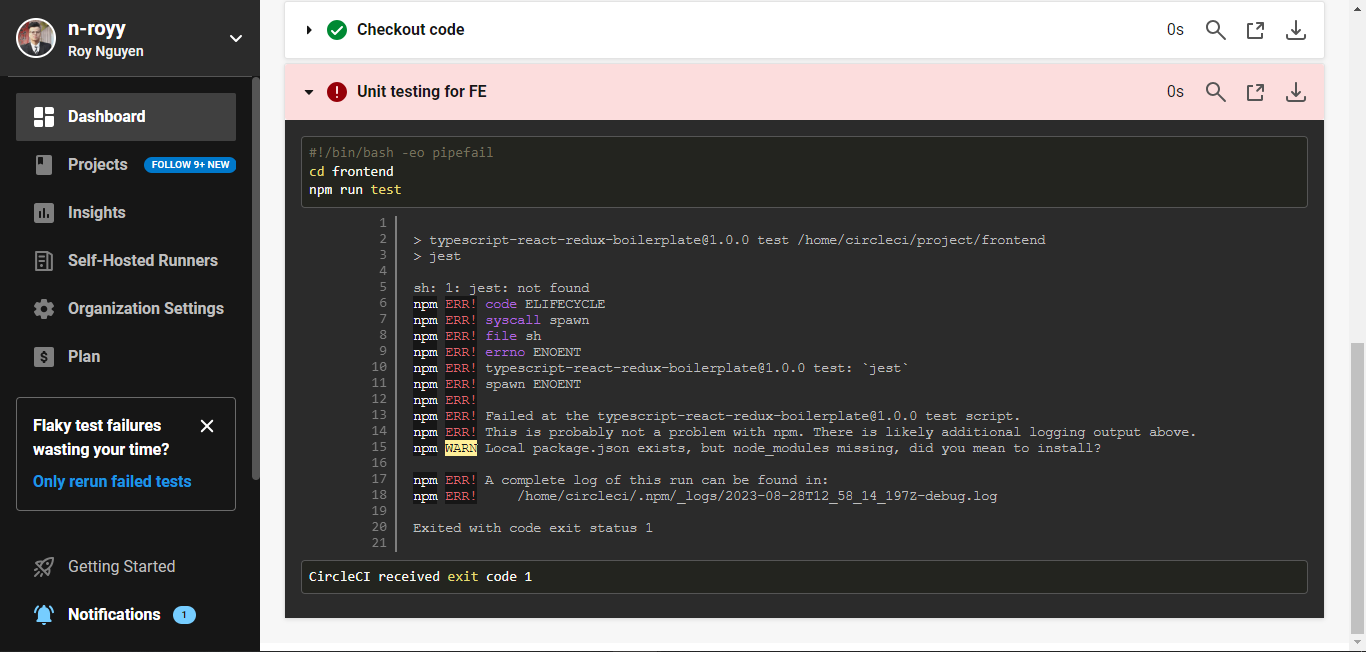
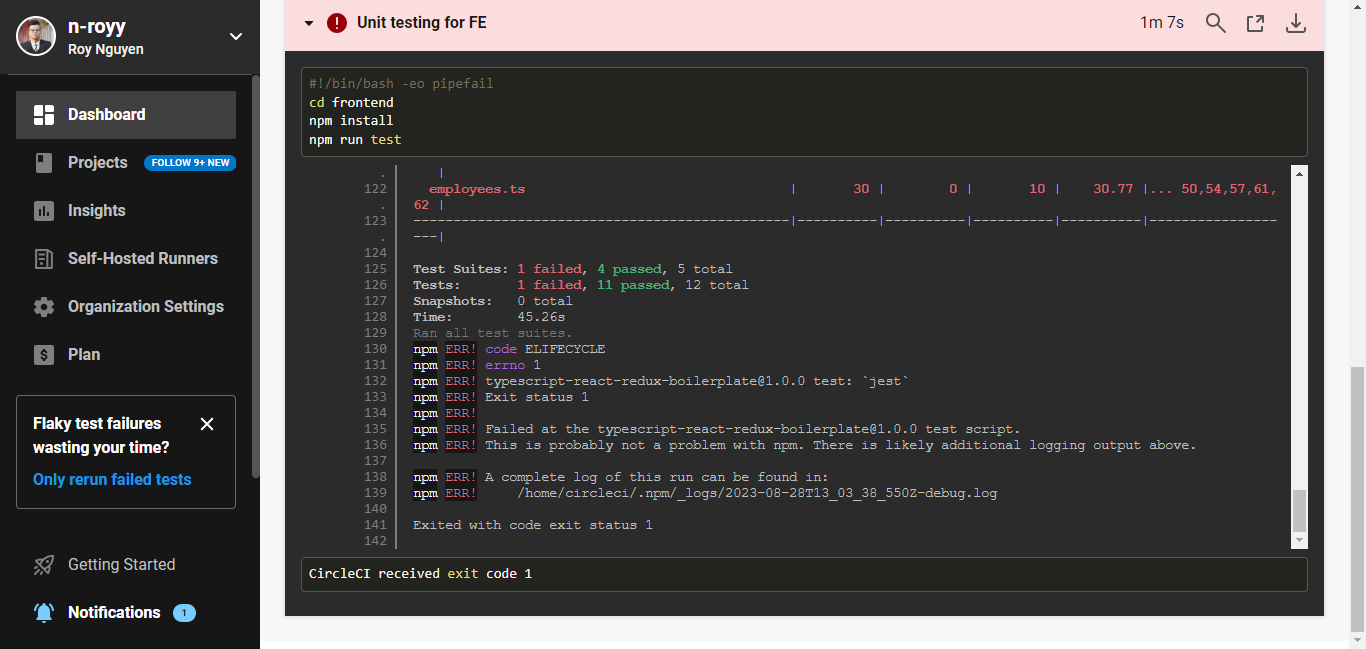
fix UT for FE and BE

diff --git a/frontend/src/app/components/LoadingMessage/LoadingMessage.spec.tsx b/frontend/src/app/components/LoadingMessage/LoadingMessage.spec.tsx
@@ -8,7 +8,7 @@ describe('<LoadingMessage>', () => {
       it('Should render the props message', () => {
         const message = 'Hello!';
         const wrapper = shallow(<LoadingMessage message={message} />);
-        expect(wrapper.contains(<span>{message}?</span>)).toBeTruthy(); //remove the question mark to make the test pass
+        expect(wrapper.contains(<span>{message}</span>)).toBeTruthy(); //remove the question mark to make the test pass
       });
     });
   });

diff --git a/backend/src/modules/domain/employees/commands/handlers/employee-activator.handler.spec.ts b/backend/src/modules/domain/employees/commands/handlers/employee-activator.handler.spec.ts
@@ -19,7 +19,7 @@ describe('Employee Remover', () => {
       const handler = new EmployeeActivator(employeeRepository);
 
       const params = {
-        employeeId: 101, //change this to 100 to make the test pass
+        employeeId: 100, //change this to 100 to make the test pass
         isActive: false,
       };
 
